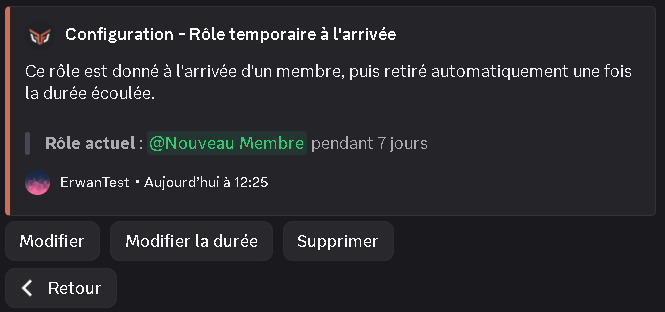
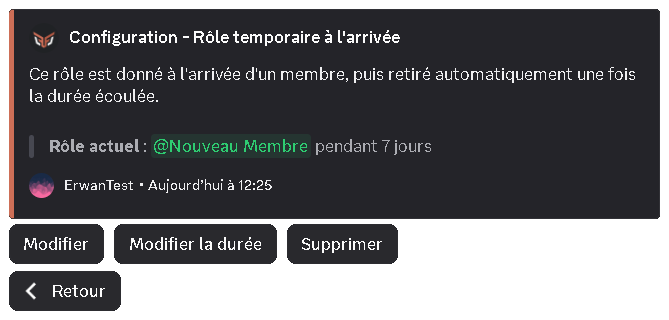
🔄 Replace image: config_roles_temp.png

diff --git a/docs/fr/4.member-welcome/1.automatic-roles.md b/docs/fr/4.member-welcome/1.automatic-roles.md
@@ -59,6 +59,10 @@ updatedAt: '2026-04-17'
     ::hint{ type="info" }
       Cette fonctionnalité est réservée aux serveurs [premium](/premium) <:icon_premium_:1096140508625125417>.
     ::
+
+    ::hint{ type="info" }
+      Un rôle déjà donné en **permanent** ne **peut pas** être choisi ici.
+    ::
   ::
 
   ::tab{ label="Via la commande /config" }
@@ -70,6 +74,10 @@ updatedAt: '2026-04-17'
     Veuillez d'abord vous rendre dans \</config> ➜ 🏷 Rôles Automatiques ➜ "Temporaire à l'arrivée".
 
     Pour configurer un rôle temporaire lorsqu'un membre rejoint votre serveur, cliquez sur "Configurer".
+
+    ::hint{ type="info" }
+      Un rôle déjà donné en **permanent** ne **peut pas** être choisi ici.
+    ::
 
     Si vous souhaitez modifier un rôle de cette liste, cliquez sur "Modifier"
 
